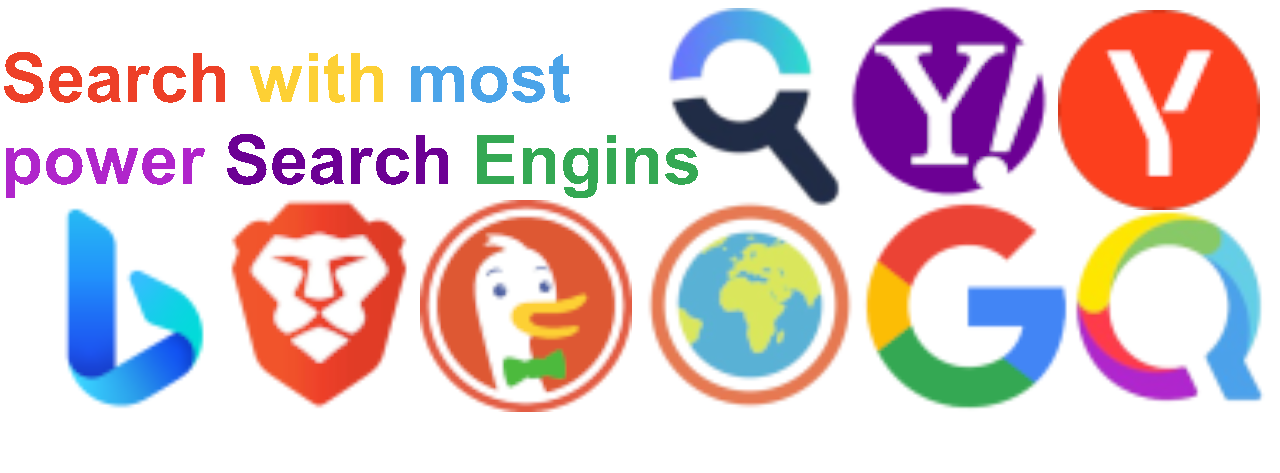
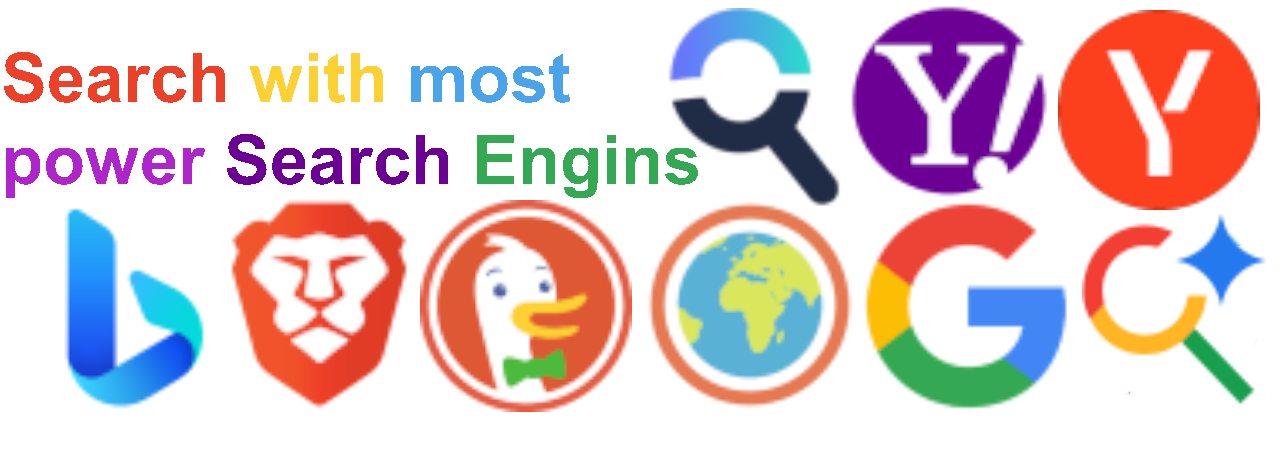
Added New Googe Ai search place of Qwant added new feateure to open url instead of search open cal or link bar link in incognito mode

Changed region(s): [[0.8125, 0.444, 1.0, 0.8584]]

diff --git a/src/js/links.js b/src/js/links.js
@@ -105,7 +105,8 @@ document.addEventListener("DOMContentLoaded", function () {
         cm.id = "dynamic-menu-" + t;
         cm.innerHTML = `
           <button class="menu-item" data-action="open-link" data-index="${t}">Open</button>
-          <button class="menu-item" data-action="open--link-new-tab" data-index="${t}">Open in New Tab</button>
+          <button class="menu-item" data-action="open-link-new-tab" data-index="${t}">Open in New Tab</button>
+          <button class="menu-item" data-action="open-link-incognito-tab" data-index="${t}">In Incognito</button>
           <button class="menu-item" data-action="edit-link" data-index="${t}">Edit</button>
           <button class="menu-item" data-action="delete-link" data-index="${t}">Delete</button>
         `;
@@ -131,7 +132,10 @@ document.addEventListener("DOMContentLoaded", function () {
             const action = evt.target.dataset.action,
               idx = parseInt(evt.target.dataset.index);
             if (action === "open-link") w(idx, !1);
-            else if (action === "open--link-new-tab") w(idx, !0);
+            else if (action === "open-link-new-tab") w(idx, !0);
+            else if (action === "open-link-incognito-tab") {
+              chrome?.windows?.create({ url: y[idx].url, incognito: true });
+            }
             else if (action === "edit-link") {
               f = idx;
               o.value = y[idx].name;
@@ -160,7 +164,8 @@ document.addEventListener("DOMContentLoaded", function () {
         menu.id = "dynamic-menu-" + t;
         menu.innerHTML = `
           <button class="menu-item" data-action="open-link" data-index="${t}">Open</button>
-          <button class="menu-item" data-action="open--link-new-tab" data-index="${t}">Open in New Tab</button>
+          <button class="menu-item" data-action="open-link-new-tab" data-index="${t}">Open in New Tab</button>
+          <button class="menu-item" data-action="open-link-incognito-tab" data-index="${t}">In Incognito</button>
           <button class="menu-item" data-action="edit-link" data-index="${t}">Edit</button>
           <button class="menu-item" data-action="delete-link" data-index="${t}">Delete</button>
         `;
@@ -184,7 +189,10 @@ document.addEventListener("DOMContentLoaded", function () {
             const action = evt.target.dataset.action,
               idx = parseInt(evt.target.dataset.index);
             if (action === "open-link") w(idx, !1);
-            else if (action === "open--link-new-tab") w(idx, !0);
+            else if (action === "open-link-new-tab") w(idx, !0);
+            else if (action === "open-link-incognito-tab") {
+              chrome?.windows?.create({ url: y[idx].url, incognito: true });
+            }
             else if (action === "edit-link") {
               f = idx;
               o.value = y[idx].name;
@@ -561,6 +569,7 @@ document.addEventListener("DOMContentLoaded", function () {
     const action = e.target.dataset.action;
     if (action === "cal-open") openLink(currentIndex, false);
     else if (action === "cal-Newtab") openLink(currentIndex, true);
+    else if (action === "cal-incognito") openLink(currentIndex, false, true);
     else if (action === "cal-edit") {
       editingIndex = currentIndex;  // store exact item being edited
       openModal(true);
@@ -589,9 +598,18 @@ document.addEventListener("DOMContentLoaded", function () {
   });
 
   // ===== Open Link =====
-  function openLink(index, newTab = false) {
+  function openLink(index, newTab = false, incognito = false) {
     if (index < 0 || index >= launcherLinks.length) return;
     const url = launcherLinks[index].url;
+
+    // Handle Incognito
+    if (incognito && chrome?.windows) {
+      chrome.windows.create({ url: url, incognito: true });
+      contextMenu.style.display = "none";
+      return;
+    }
+
+    // Existing Logic
     if (chrome.tabs) {
       newTab ? chrome.tabs.create({ url }) : chrome.tabs.query({ active: true, currentWindow: true }, t => { chrome.tabs.update(t[0].id, { url }); });
     } else {
@@ -599,7 +617,6 @@ document.addEventListener("DOMContentLoaded", function () {
     }
     contextMenu.style.display = "none";
   }
-
   // ===== Modal =====
   function openModal(edit = false) {
     popupBox.style.display = "flex";

diff --git a/index.html b/index.html
@@ -92,7 +92,7 @@
             <a href="https://microresearch-corporation.github.io/mrd/" target="_blank">
                 <img class="slide slide-ltr" src="./src/assets/slide_02.png" />
             </a>
-            <a href="https://www.google.com/search?q=About+most+power+Search+Engines+like+%28Yahoo+Brave+DuckDuckGo+Ecosia+Google+Qwant+Yandex+Startpage+and+Bing&source=homepage"
+            <a href="https://www.google.com/search?q=About+most+power+Search+Engines+like+%28Yahoo+Brave+DuckDuckGo+Ecosia+Google+GoogleAi+Yandex+Startpage+and+Bing&source=homepage"
                 target="_blank">
                 <img class="slide slide-rtl" src="./src/assets/slide_03.png" />
             </a>
@@ -121,39 +121,39 @@
 
 
         <div id="searchEnginBox" class="searchEnginBox">
-            <button id="bing-btn" data-engine="bing" class="searchEnginBoxBtn"
+            <button data-engine="bing" class="searchEnginBoxBtn"
                 title="Left-click: Set Default | Right-click: Search Bing">
                 <img src="./src/assets/bing.png">
             </button>
-            <button id="duckduck-btn" data-engine="duckduck" class="searchEnginBoxBtn"
+            <button data-engine="duckduck" class="searchEnginBoxBtn"
                 title="Left-click: Set Default | Right-click: Search DDG">
                 <img src="./src/assets/DuckDuckGo.png">
             </button>
-            <button id="google-btn" data-engine="google" class="searchEnginBoxBtn"
+            <button data-engine="google" class="searchEnginBoxBtn"
                 title="Left-click: Set Default | Right-click: Search Google">
                 <img src="./src/assets/google.png">
             </button>
-            <button id="yahoo-btn" data-engine="yahoo" class="searchEnginBoxBtn"
+            <button data-engine="googleai" class="searchEnginBoxBtn"
+                title="Left-click: Set Default | Right-click: Search Google Ai">
+                <img src="./src/assets/gsai.png">
+            </button>
+            <button data-engine="yahoo" class="searchEnginBoxBtn"
                 title="Left-click: Set Default | Right-click: Search Yahoo">
                 <img src="./src/assets/yahoo.png">
             </button>
-            <button id="qwant-btn" data-engine="Qwant" class="searchEnginBoxBtn"
-                title="Left-click: Set Default | Right-click: Search Qwant">
-                <img src="./src/assets/qwant.png">
-            </button>
-            <button id="brave-btn" data-engine="brave" class="searchEnginBoxBtn"
+            <button data-engine="brave" class="searchEnginBoxBtn"
                 title="Left-click: Set Default | Right-click: Search Brave">
                 <img src="./src/assets/brave.png">
             </button>
-            <button id="startpage-btn" data-engine="startpage" class="searchEnginBoxBtn"
+            <button data-engine="startpage" class="searchEnginBoxBtn"
                 title="Left-click: Set Default | Right-click: Search Startpage">
                 <img src="./src/assets/Startpage.png">
             </button>
-            <button id="ecosia-btn" data-engine="Ecosia" class="searchEnginBoxBtn"
+            <button data-engine="ecosia" class="searchEnginBoxBtn"
                 title="Left-click: Set Default | Right-click: Search Ecosia">
                 <img src="./src/assets/Ecosia.png">
             </button>
-            <button id="yandex-btn" data-engine="yandex" class="searchEnginBoxBtn"
+            <button data-engine="yandex" class="searchEnginBoxBtn"
                 title="Left-click: Set Default | Right-click: Search Yandex">
                 <img src="./src/assets/yandex.png">
             </button>
@@ -357,6 +357,7 @@
     <div id="cal-contextMenu" class="context-menu">
         <button class="menu-item" data-action="cal-open">Open</button>
         <button class="menu-item" data-action="cal-Newtab">Open in New Tab</button>
+         <button class="menu-item" data-action="cal-incognito" data-index="${t}">In Incognito</button> 
         <button class="menu-item" data-action="cal-edit">Edit</button>
         <button class="menu-item" data-action="cal-delete">Delete</button>
     </div>

diff --git a/src/js/page.js b/src/js/page.js
@@ -315,7 +315,7 @@ function getSearchUrl(engine, term) {
     startpage: `https://www.startpage.com/sp/search?query=${query}&source=homepage`,
     ecosia: `https://www.ecosia.com/search?q=${query}&source=homepage`,
     bing: `https://www.bing.com/search?q=${query}&source=homepage`,
-    qwant: `https://www.qwant.com/?q=${query}&t==homepage`,
+    googleai: `https://www.google.com/search?q=${query}&udm=50&aep=48&sourceid=homepage&source=homepage`,
     duckduck: `https://duckduckgo.com/?q=${query}&ia=homepage`,
     yahoo: `https://search.yahoo.com/search?p=${query}`,
     yandex: `https://www.yandex.com/search/?text=${query}&lr=13184814691&search_source=homepage`
@@ -326,15 +326,44 @@ function getSearchUrl(engine, term) {
 // ---------------------------------------------------------
 // 2. Combined Suggestion Logic (Google, YT, DDG, Wiki Only)
 // ---------------------------------------------------------
+// --- URL Detection Logic ---
 
+function isValidUrl(string) {
+  // 1. If it contains spaces, it's a search query (e.g., "eg .com")
+  if (string.includes(" ")) return false;
+
+  // 2. If it starts with http:// or https://, it's a URL
+  if (/^https?:\/\//i.test(string)) return true;
+
+  // 3. If it has no protocol but looks like a domain (e.g., "eg.com", "google.co.uk")
+  // Regex: String + Dot + String (at least 2 chars)
+  return /^[a-zA-Z0-9-]+\.[a-zA-Z0-9-]{2,}/.test(string);
+}
+
+function handleSearchOrNavigate(input) {
+  const term = input.trim();
+  if (!term) return;
+
+  if (isValidUrl(term)) {
+    // If it's a URL, ensure it has a protocol
+    let url = term;
+    if (!/^https?:\/\//i.test(url)) {
+      url = "https://" + url;
+    }
+    window.location.href = url;
+  } else {
+    // If it's text/search query, perform search
+    window.location.href = getSearchUrl(defaultEngine, term);
+  }
+}
 // Helper: Process and Add suggestions
 function processSuggestions(items) {
   if (!items || !items.length) return;
-  
+
   items.forEach(item => {
     // Extract text (some APIs return strings, some objects)
     const text = (typeof item === 'object' && item.text) ? item.text : item;
-    
+
     // Deduplicate: Add only if unique
     if (text && !combinedSuggestions.some(existing => existing.toLowerCase() === text.toLowerCase())) {
       combinedSuggestions.push(text);
@@ -353,7 +382,7 @@ async function fetchSuggestions(term) {
 
   // Reset list
   combinedSuggestions = [];
-  
+
   // Fire requests (Google, YouTube, DDG, Wiki)
   fetchGoogle(term);
   fetchYouTube(term);
@@ -410,13 +439,13 @@ function displaySuggestions(list) {
     suggestionsBox.style.display = "none";
     return;
   }
-  
+
   // Limit to 10 items
   suggestionsBox.innerHTML = list
-    .slice(0, 10) 
+    .slice(0, 10)
     .map(item => `<div class="suggestion-item">${item}</div>`)
     .join("");
-    
+
   suggestionsBox.style.display = "flex";
 }
 
@@ -447,11 +476,11 @@ function updateEngineUI() {
   });
 }
 
-searchInput.addEventListener("input", function() {
+searchInput.addEventListener("input", function () {
   const val = this.value.trim();
   searchPopup.style.display = val !== "" ? "flex" : "none";
   clearTimeout(debounceTimer);
-  
+
   if (val === "") {
     suggestionsBox.style.display = "none";
     return;
@@ -463,17 +492,19 @@ searchInput.addEventListener("input", function() {
   }, 300);
 });
 
+// --- Updated Event Listeners ---
+
 suggestionsBox.addEventListener("click", (e) => {
   if (e.target.classList.contains("suggestion-item")) {
     searchInput.value = e.target.innerText;
-    window.location.href = getSearchUrl(defaultEngine, searchInput.value);
+    // Suggestions are usually search terms, but we run it through the handler to be safe
+    handleSearchOrNavigate(searchInput.value);
   }
 });
 
 searchInput.addEventListener("keypress", (e) => {
   if (e.key === "Enter") {
-    const term = searchInput.value.trim();
-    if (term) window.location.href = getSearchUrl(defaultEngine, term);
+    handleSearchOrNavigate(searchInput.value);
   }
 });
 

diff --git a/src/info.html b/src/info.html
@@ -78,7 +78,7 @@
               <li>Fix issues</li>
               <li>New Google Pixal UI Look</li>
               <li>Introduce new auto change colors on bg change</li>
-              <li>Add new <strong>Search Engins</strong> Qwant, StartPage</li>
+              <li>Add new <strong>Search Engins</strong> Google Ai, StartPage</li>
             </ul>
           </details>
           <details class="changelog">

diff --git a/calc/calc.css b/calc/calc.css
@@ -380,7 +380,7 @@ button {
 }
 
 .last-updated-info {
-    background-color: var(--alert-bg);
+    background-color: var(--accent-h);
     backdrop-filter: blur(5px);
     border-radius: 1rem;
     padding: 16px;
@@ -388,7 +388,7 @@ button {
 }
 
 .last-updated-info p {
-    color: var(--gray-light);
+    color: var(--accent);
     font-size: 1rem;
     text-align: center;
 }

diff --git a/src/css/links.css b/src/css/links.css
@@ -94,7 +94,7 @@
     border-radius: var(--radius-sm); /* M3 Menu Shape */
     box-shadow:var(--shadow-o);
     z-index: 101;
-    max-width: 130px;
+    max-width: 140px;
     animation: fade5 1s ease-in-out;
     padding: 5px 0;
 }
